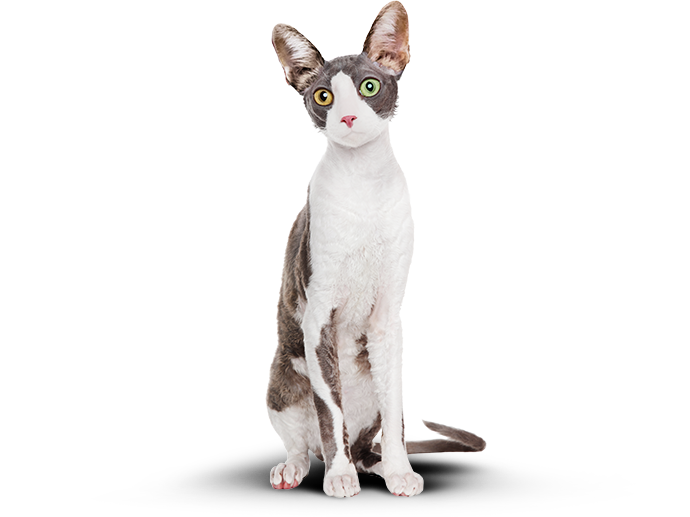
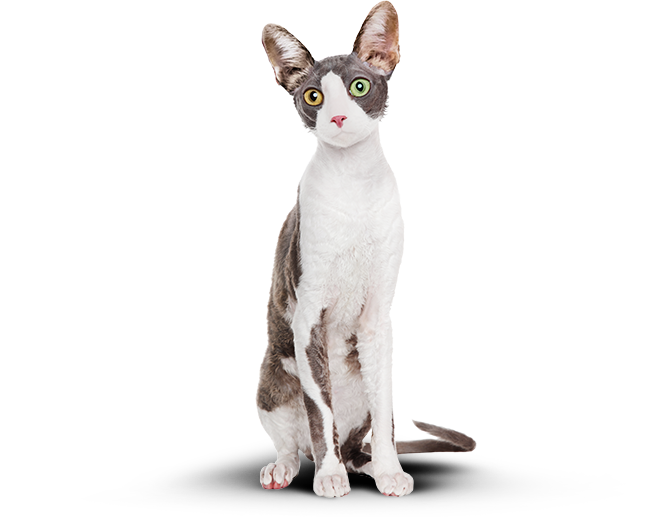
Внесены правки в фоны на главной странице.

diff --git a/source/form.html b/source/form.html
@@ -9,29 +9,31 @@
   <body>
 
     <header class="header">
-      <div class="header__logo-wrapper">
-        <a class="header__logo logo">
-          <picture>
-            <source media="(min-width: 1300px)" srcset="img/logo-desktop.svg">
-            <source media="(min-width: 768px)" srcset="img/logo-tablet.svg">
-            <img class="header__logo-image" src="img/logo-mobile.svg" width="191" height="38" alt="Логотип Cat Energy">
-          </picture>
-        </a>
+      <div class="header__wrapper">
+        <div class="header__logo-wrapper">
+          <a class="header__logo logo">
+            <picture>
+              <source media="(min-width: 1300px)" srcset="img/logo-desktop.svg">
+              <source media="(min-width: 768px)" srcset="img/logo-tablet.svg">
+              <img class="header__logo-image" src="img/logo-mobile.svg" width="191" height="38" alt="Логотип Cat Energy">
+            </picture>
+          </a>
+        </div>
+        <nav class="menu menu--closed menu--nojs">
+          <button class="menu__toggle" type="button" aria-label="Открыть меню"></button>
+          <ul class="menu__list">
+            <li class="menu__item">
+              <a class="menu__link" href="index.html">Главная</a>
+            </li>
+            <li class="menu__item">
+              <a class="menu__link" href="catalog.html">Каталог продукции</a>
+            </li>
+            <li class="menu__item menu__item--active">
+              <a class="menu__link">Подбор программы</a>
+            </li>
+          </ul>
+        </nav>
       </div>
-      <nav class="menu menu--closed menu--nojs">
-        <button class="menu__toggle" type="button" aria-label="Открыть меню"></button>
-        <ul class="menu__list">
-          <li class="menu__item">
-            <a class="menu__link" href="index.html">Главная</a>
-          </li>
-          <li class="menu__item">
-            <a class="menu__link" href="catalog.html">Каталог продукции</a>
-          </li>
-          <li class="menu__item menu__item--active">
-            <a class="menu__link">Подбор программы</a>
-          </li>
-        </ul>
-      </nav>
     </header>
 
     <main class="page-main">

diff --git a/source/catalog.html b/source/catalog.html
@@ -9,29 +9,31 @@
   <body>
 
     <header class="header">
-      <div class="header__logo-wrapper">
-        <a class="header__logo logo">
-          <picture>
-            <source media="(min-width: 1300px)" srcset="img/logo-desktop.svg">
-            <source media="(min-width: 768px)" srcset="img/logo-tablet.svg">
-            <img class="header__logo-image" src="img/logo-mobile.svg" width="191" height="38" alt="Логотип Cat Energy">
-          </picture>
-        </a>
+      <div class="header__wrapper">
+        <div class="header__logo-wrapper">
+          <a class="header__logo logo">
+            <picture>
+              <source media="(min-width: 1300px)" srcset="img/logo-desktop.svg">
+              <source media="(min-width: 768px)" srcset="img/logo-tablet.svg">
+              <img class="header__logo-image" src="img/logo-mobile.svg" width="191" height="38" alt="Логотип Cat Energy">
+            </picture>
+          </a>
+        </div>
+        <nav class="menu menu--closed menu--nojs">
+          <button class="menu__toggle" type="button" aria-label="Открыть меню"></button>
+          <ul class="menu__list">
+            <li class="menu__item">
+              <a class="menu__link" href="index.html">Главная</a>
+            </li>
+            <li class="menu__item menu__item--active">
+              <a class="menu__link">Каталог продукции</a>
+            </li>
+            <li class="menu__item">
+              <a class="menu__link" href="form.html">Подбор программы</a>
+            </li>
+          </ul>
+        </nav>
       </div>
-      <nav class="menu menu--closed menu--nojs">
-        <button class="menu__toggle" type="button" aria-label="Открыть меню"></button>
-        <ul class="menu__list">
-          <li class="menu__item">
-            <a class="menu__link" href="index.html">Главная</a>
-          </li>
-          <li class="menu__item menu__item--active">
-            <a class="menu__link">Каталог продукции</a>
-          </li>
-          <li class="menu__item">
-            <a class="menu__link" href="form.html">Подбор программы</a>
-          </li>
-        </ul>
-      </nav>
     </header>
 
     <main class="page-main">

diff --git a/source/sass/blocks/example.scss b/source/sass/blocks/example.scss
@@ -432,8 +432,12 @@
 
     &:first-child {
       position: absolute;
-      left: calc(50% - 347px);
-      width: 365px;
+      left: calc(50% - 328px);
+      width: 355px;
+    }
+
+    &:last-child {
+      left: calc(50% - 326px);
     }
 
     &:first-child::before {
@@ -446,6 +450,11 @@
       height: 462px;
       background-color: $grey;
     }
+  }
+
+  .example__slider-image {
+    width: 670px;
+    max-width: 670px;
   }
 
   .example__wrapper-image {

diff --git a/source/index.html b/source/index.html
@@ -8,7 +8,7 @@
   </head>
   <body>
 
-    <header class="header">
+    <header class="header header--index">
       <div class="header__wrapper">
         <div class="header__logo-wrapper">
           <a class="header__logo logo">

diff --git a/source/sass/blocks/header.scss b/source/sass/blocks/header.scss
@@ -49,7 +49,7 @@
     padding-top: 54px;
     padding-bottom: 28px;
 
-    &::before {
+    &--index::before {
       content: "";
       position: absolute;
       top: 0;
